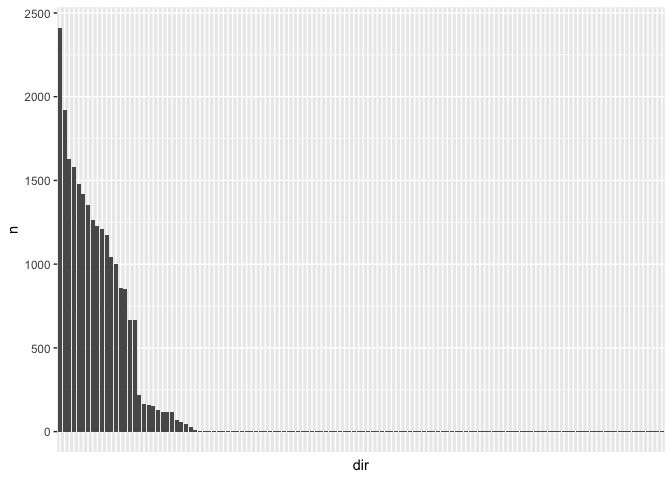
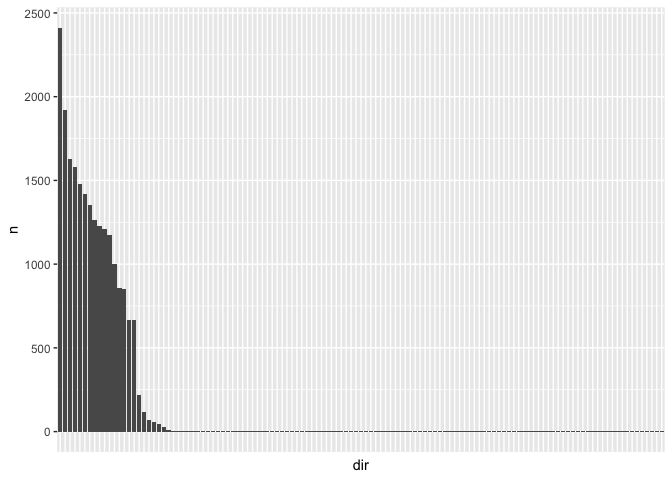
update file paths from move and rerun reports

diff --git a/Reports/file_counts/file_counts.md b/Reports/file_counts/file_counts.md
@@ -1,7 +1,7 @@
 How many files per directory?
 ================
 Steven Moran
-06 March, 2020
+25 March, 2020
 
 ``` r
 library(tidyverse)
@@ -20,7 +20,7 @@ fils.counts <- tibble(dir = dirname(fils)) %>% count(dir) %>% arrange(desc(n))
 nrow(fils.counts)
 ```
 
-    ## [1] 130
+    ## [1] 123
 
 ``` r
 # There are this many files per directory
@@ -40,20 +40,13 @@ kable(fils.counts)
 | ../../Corpus/Indonesian\_ind/non-fiction/written          |  1226|
 | ../../Corpus/French\_fra/non-fiction/written              |  1211|
 | ../../Corpus/Persian\_pes/non-fiction/written             |  1173|
-| ../../Corpus/Japanese\_jpn/non-fiction/written            |  1042|
 | ../../Corpus/Thai\_tha/non-fiction/written                |  1001|
 | ../../Corpus/Vietnamese\_vie/non-fiction/written          |   859|
 | ../../Corpus/Korean\_kor/non-fiction/written              |   853|
 | ../../Corpus/Basque\_eus/non-fiction/written              |   669|
 | ../../Corpus/Mandarin\_cmn/non-fiction/written            |   667|
 | ../../Corpus/Georgian\_kat/non-fiction/written            |   217|
-| ../../Corpus/Greek\_Modern\_ell/fiction                   |   165|
-| ../../Corpus/Finnish\_fin/fiction                         |   161|
-| ../../Corpus/German\_deu/fiction                          |   152|
-| ../../Corpus/French\_fra/fiction                          |   126|
-| ../../Corpus/Spanish\_spa/fiction                         |   119|
 | ../../Corpus/English\_eng/fiction                         |   117|
-| ../../Corpus/Mandarin\_cmn/fiction                        |   115|
 | ../../Corpus/Hindi\_hin/non-fiction/written               |    72|
 | ../../Corpus/Tagalog\_tgl/fiction                         |    55|
 | ../../Corpus/Tagalog\_tgl/non-fiction/written             |    44|

diff --git a/Reports/maps/maps.md b/Reports/maps/maps.md
@@ -1,7 +1,7 @@
 Generate world maps from the 100 LC language sample
 ================
 Chris Bentz, Steven Moran
-06 March, 2020
+25 March, 2020
 
 ``` r
 library(ggplot2)
@@ -12,7 +12,7 @@ library(testthat)
 
 ``` r
 # Load file with information on 100 language sample
-lang100 <- read.csv("langInfo_100LC.csv", header = T)
+lang100 <- read.csv("../../LangInfo/langInfo_100LC.csv", header = T)
 
 # Data checks
 expect_equal(length(lang100$iso_639_3), 100)
